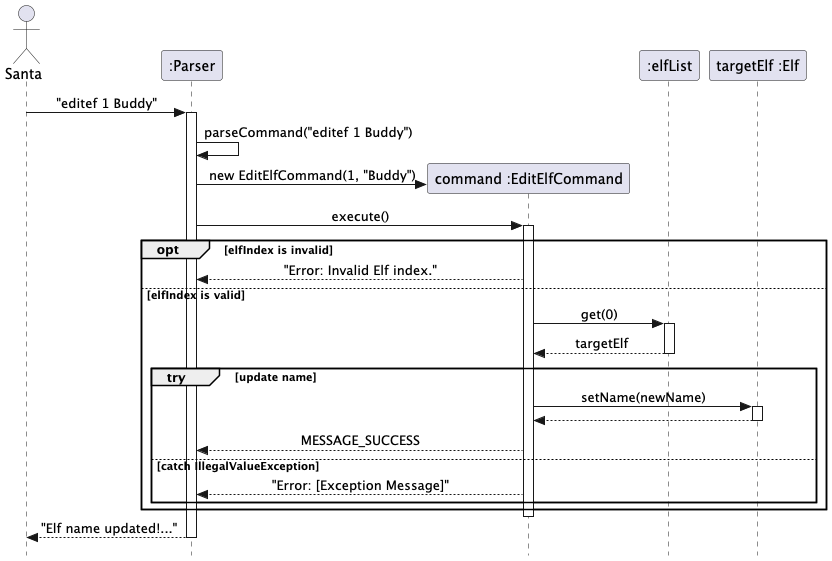
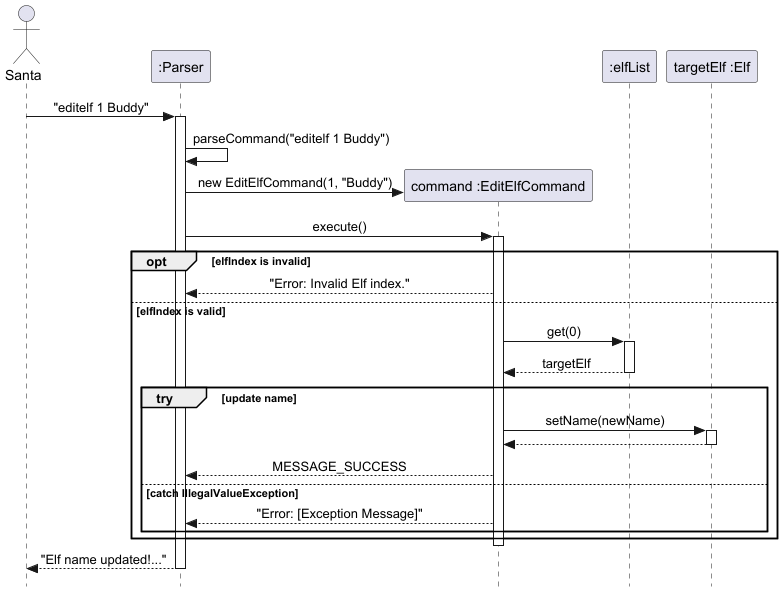
Fix sequence diagram syntax and format DG

diff --git a/docs/DeveloperGuide.md b/docs/DeveloperGuide.md
@@ -23,7 +23,8 @@ The bulk of the app’s work is done by the following five components:
 * (trivial implementation) Ui: The Ui of the App.
 
 The Architecture Diagram given below explains the high-level design of the App.
-  ![ArchitectureDiagram.png](diagrams/ArchitectureDiagram.png)
+
+![ArchitectureDiagram.png](diagrams/ArchitectureDiagram.png)
 
 The Sequence Diagram below shows how the components interact with each other for the scenario where the user issues the command delete 1.
 
@@ -114,7 +115,7 @@ The Data component houses all possible interacting entities of the application a
 - deletion
 
 #### Implementation
-![DataComponentDiagram.png](diagrams/DataComponentDiagram.png)    
+![DataComponentDiagram.png](diagrams/DataComponentDiagram.png) 
   
 The Data components interact in the following manner:
 - Child entity comprising Name and further Gift(s), implementing ReadOnlyChild and throwing IllegalValueException
@@ -173,7 +174,6 @@ The following diagram shows how user input is processed by the Parser.
 ![ParserSequenceDiagram.png](diagrams/ParserSequenceDiagram.png)
 
 #### Class Diagram
-
 ![ParserClassDiagram.png](diagrams/ParserClassDiagram.png)
 
 
@@ -542,7 +542,8 @@ Given below is a sequence diagram showing how the elf command works.
 
 Given below is a sequence diagram showing how the editelf command works.
 
-![](diagrams/EditElfSequenceDiagram.png)
+![EditElfSequenceDiagram.png](diagrams/EditElfSequenceDiagram.png)
+
 
 Given below is a sequence diagram showing how the rmelf command works.
 
@@ -847,6 +848,7 @@ Appropriate error messages are returned in case a check fails.
 
 #### UML Diagram- Sequence Diagram
 Given below is the sequence diagram
+
 ![DeGiftSequenceDiagram.png](diagrams/DeGiftSequenceDiagram.png)
 
 **Aspect:** How to implement the DeGift feature
@@ -883,6 +885,7 @@ Appropriate error messages are returned in case a check fails.
 
 #### UML Diagram- Sequence Diagram
 Given below is the sequence diagram which describes the happy path.
+
 ![DeliveryStatusSequenceDiagram.png](diagrams/DeliveryStatusSequenceDiagram.png)
 
 **Aspect:** How to implement the Delivery Status feature
@@ -915,6 +918,7 @@ The following steps occur-
 
 #### UML Diagram- Sequence Diagram
 Given below is the sequence diagram
+
 ![PrepareGiftSequencDiagram.png](diagrams/PrepareGiftSequencDiagram.png)
 
 **Aspect:** How to implement the Prepare feature

diff --git a/docs/UserGuide.md b/docs/UserGuide.md
@@ -218,6 +218,7 @@ Examples:
 
 #### Remove gift: `degift`
 Removes gift/s assigned to a child.
+** Only undelivered gifts can be degifted. Gifts marked as prepared/delivered cannot be degifted. **
 * Format: `degift CHILD_INDEX GIFT_INDEX...`
 * The user inputs the child index and gift index. 
 * Removes the gift from the gift list using the input child index and gift index. 
@@ -228,6 +229,7 @@ Example:
 
 #### Update delivery status: `delivery_status`
 Assigns delivery status of gifts as delivered/undelivered.
+If a gift is not delivered, it is assumed as undelivered.
 * Format: `delivery_status CHILD_INDEX GIFT_INDEX d/[status] `
 * The user inputs the child index, gift index and delivery status. 
 * Assigns delivery status (delivered/undelivered) to a gift in the gift list based on the input child index and gift index. 
@@ -247,6 +249,7 @@ book
 
 #### Mark gift as prepared: `prepared`
 Marks a gift which is prepared but not delivered yet.
+If a gift is neither marked as prepared or delivered, it is assumed as undelivered.
 * Format: `prepared CHILD_INDEX GIFT_INDEX `
 * The user inputs the child index, gift index. The index must be a positive integer 1, 2, 3
 Example:
